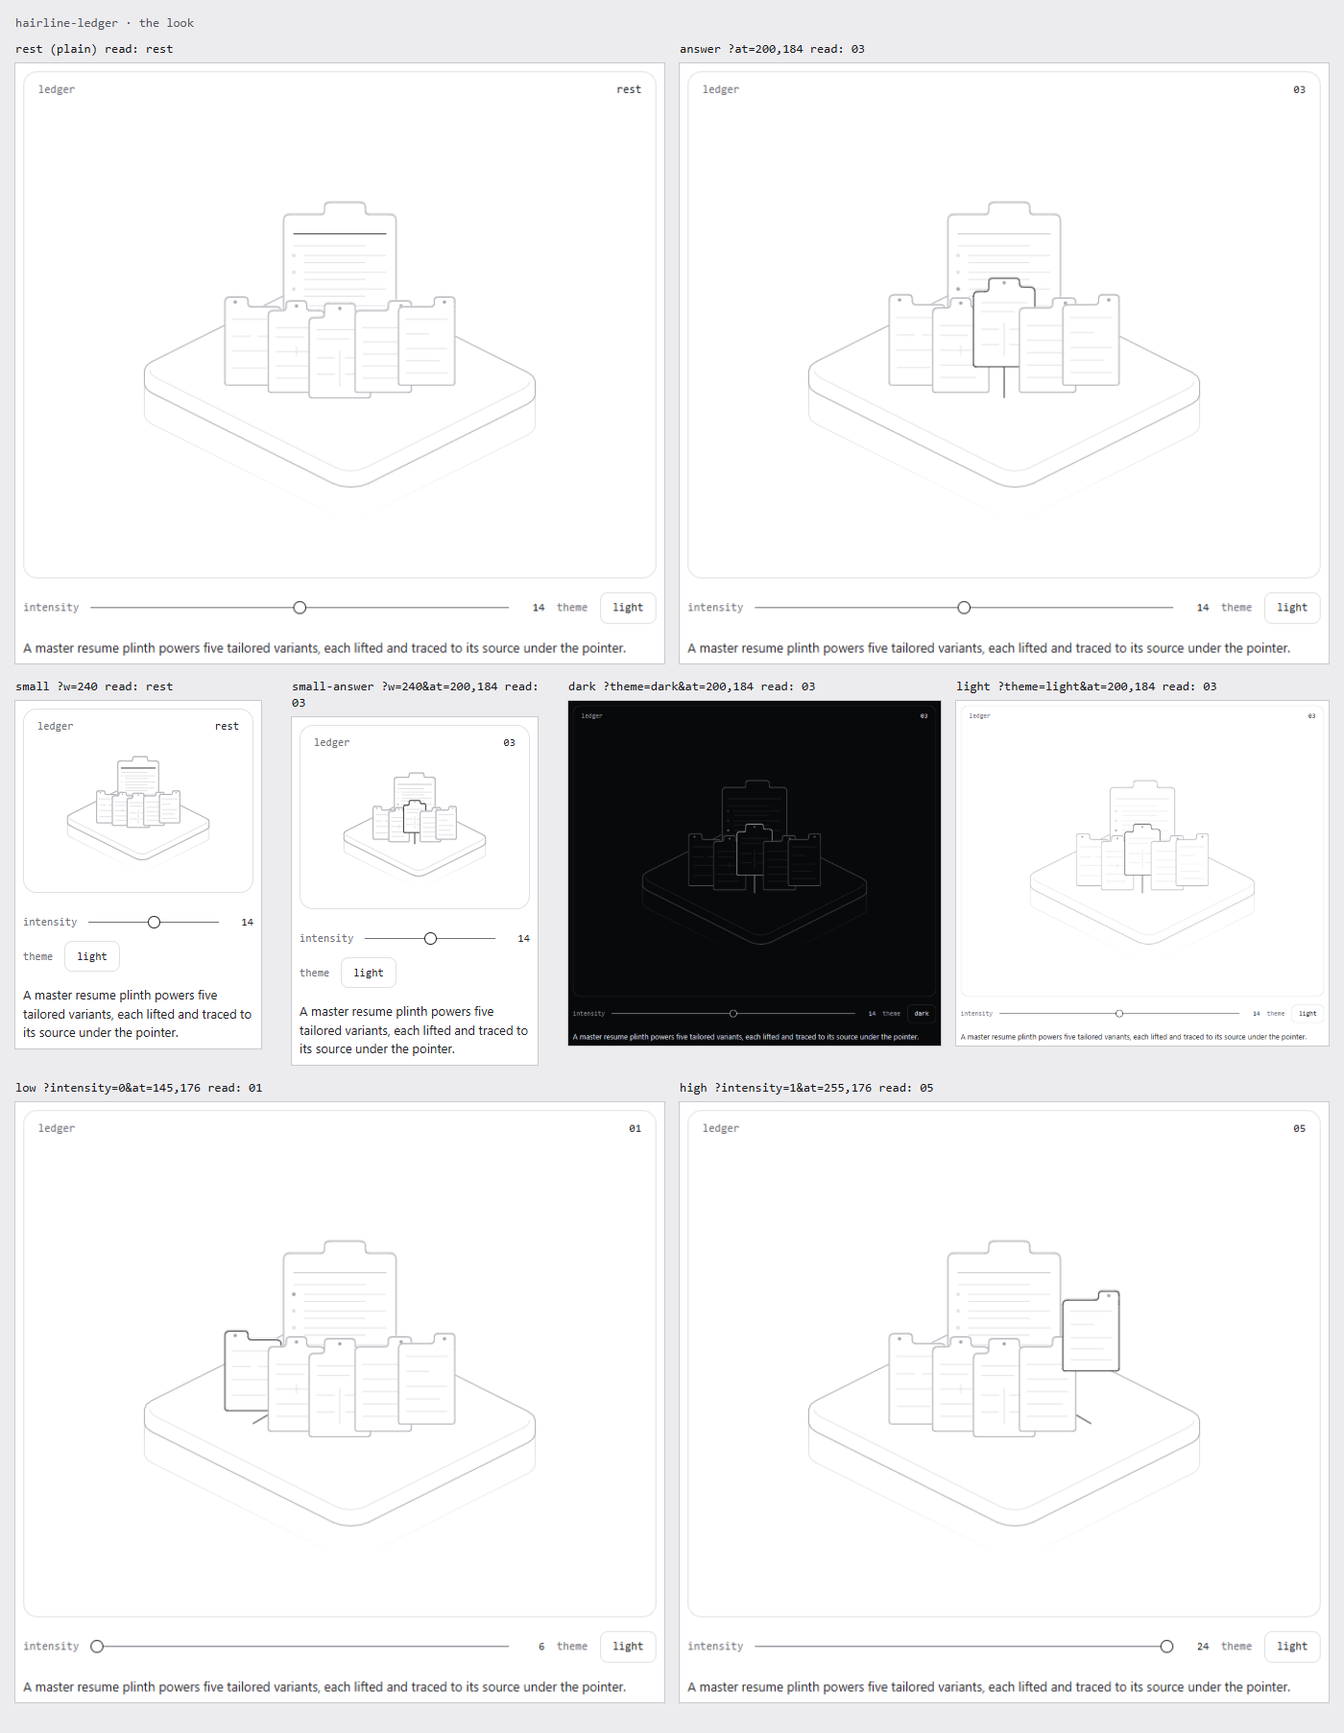
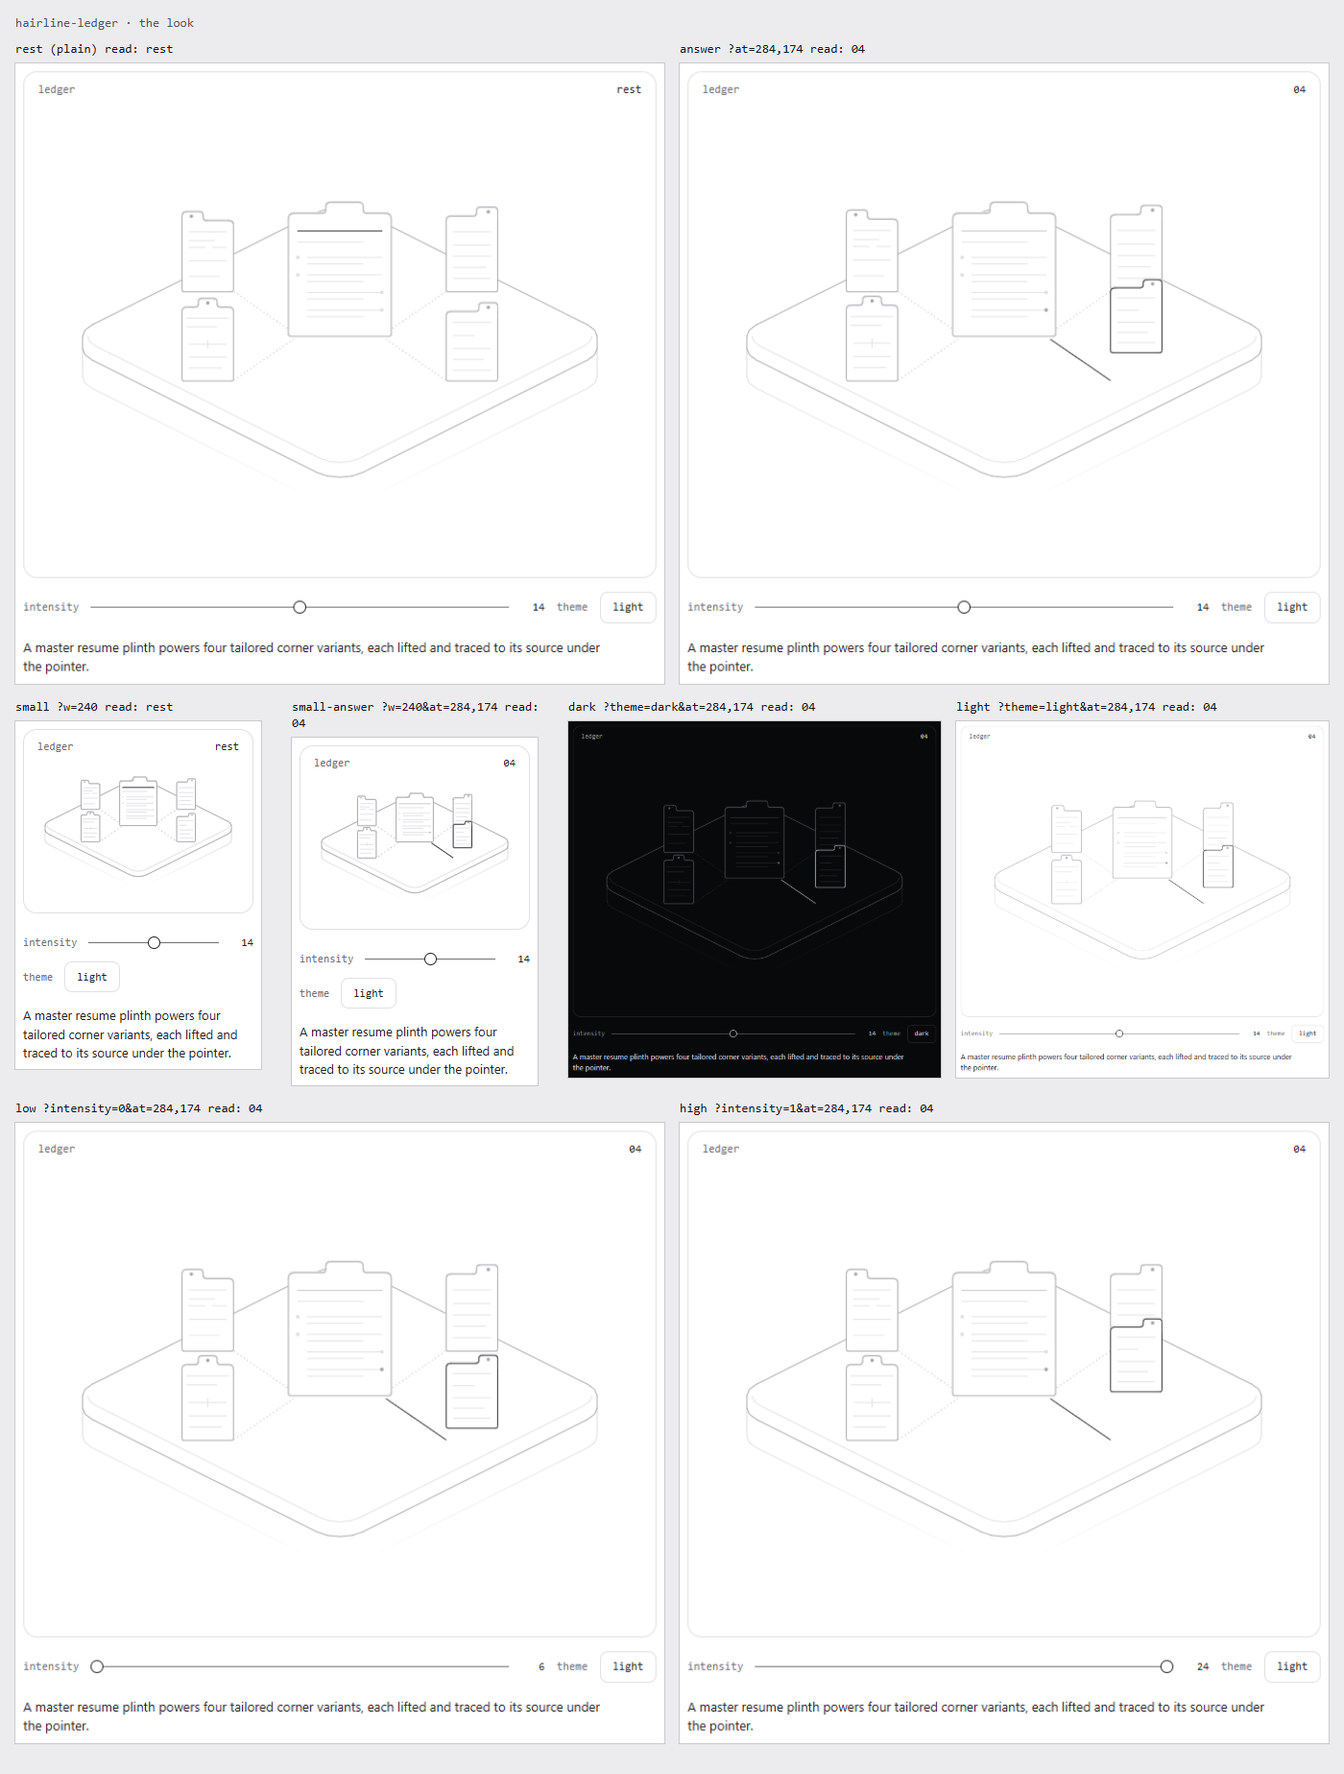
feat(hairline): redesign ledger illustration with centered master and 4 corner resumes

diff --git a/hairline-ledger.html b/hairline-ledger.html
@@ -719,7 +719,7 @@ var HL = (() => {
 </script>
 <script type="module" id="hl-figure">
 /**
- * Ledger: a master resume plinth in the center powering five diversified
+ * Ledger: a master resume plinth in the center powering four corner
  * variant resume cards around it via grounded hairline conduits.
  */
 const {
@@ -728,14 +728,13 @@ const {
   tval, tween, disposer, put,
 } = HL;
 
-const N = 5, WM = 44, HM = 56, TKM = 1.4, TKC = 1.2;
-const SQ2 = Math.SQRT1_2, MCX = -15, MCY = -15, M_REST_TH = -10;
+const N = 4, WM = 44, HM = 56, TKM = 1.4, TKC = 1.2;
+const SQ2 = Math.SQRT1_2, MCX = 0, MCY = 0, M_REST_TH = -10;
 const CARDS = [
-  { cx: -19, cy: 29, th: -13, pt: [-22, -10] },
-  { cx: -3, cy: 21, th: -10, pt: [-18, -6] },
-  { cx: 12, cy: 12, th: -7, pt: [-10, -10] },
-  { cx: 21, cy: -3, th: -10, pt: [-6, -18] },
-  { cx: 29, cy: -19, th: -13, pt: [-10, -22] },
+  { cx: -67, cy: 13, th: -12, pt: [-16, 12], edgeU: 11 },   // 0: Top-Left
+  { cx: -13, cy: 67, th: -8, pt: [-12, 16], edgeU: 11 },    // 1: Bottom-Left
+  { cx: 13, cy: -67, th: -12, pt: [12, -16], edgeU: -11 },  // 2: Top-Right
+  { cx: 67, cy: -13, th: -8, pt: [16, -12], edgeU: -11 },   // 3: Bottom-Right
 ];
 
 const mShape = fillet(
@@ -746,7 +745,6 @@ const mShape = fillet(
 const cShapes = [
   fillet([[-11, 0], [11, 0], [11, 32], [-2, 32], [-2, 36], [-11, 36]], [1, 1, 2, 1.5, 1.5, 2]),
   fillet([[-11, 0], [11, 0], [11, 34], [4, 34], [4, 38], [-4, 38], [-4, 34], [-11, 34]], [1, 1, 2, 1.5, 1.5, 1.5, 1.5, 2]),
-  fillet([[-12, 0], [12, 0], [12, 36], [6, 36], [6, 40], [-6, 40], [-6, 34], [-12, 34]], [1, 1, 2, 1.5, 1.5, 1.5, 1.5, 2]),
   fillet([[-11, 0], [11, 0], [11, 34], [11, 38], [2, 38], [2, 34], [-11, 34]], [1, 1, 2, 1.5, 1.5, 1.5, 2]),
   fillet([[-11, 0], [11, 0], [11, 32], [11, 36], [3, 36], [3, 32], [-11, 32]], [1, 1, 2, 1.5, 1.5, 1.5, 2]),
 ];
@@ -763,29 +761,28 @@ const wb = (P, cx, cy, u, v, th, lift, tk) => {
 function masterPose(P, th, lift) {
   const mw = (u, v) => w(P, MCX, MCY, u, v, th, lift);
   const mwb = (u, v) => wb(P, MCX, MCY, u, v, th, lift, TKM);
-  const vSec = [39, 32, 25, 18, 11];
+  const vSec = [36, 28, 20, 12];
   return {
     back: poly(mShape.map((p) => mwb(p[0], p[1]))),
     face: poly(mShape.map((p) => mw(p[0], p[1]))),
     head: seg(mw(-WM / 2 + 4, HM - 8), mw(WM / 2 - 4, HM - 8)),
     sub: seg(mw(-WM / 2 + 4, HM - 13), mw(WM / 2 - 12, HM - 13)),
     rules: vSec.map((v) => seg(mw(-WM / 2 + 8, v), mw(WM / 2 - 4, v)) + seg(mw(-WM / 2 + 8, v - 3), mw(WM / 2 - 12, v - 3))),
-    punches: vSec.map((v) => mw(-WM / 2 + 4, v)),
+    punches: [mw(-WM / 2 + 4, 36), mw(-WM / 2 + 4, 28), mw(WM / 2 - 4, 20), mw(WM / 2 - 4, 12)],
   };
 }
 
 function cardPose(P, i, th, lift) {
   const cd = CARDS[i], shape = cShapes[i], cw = (u, v) => w(P, cd.cx, cd.cy, u, v, th, lift);
   const cwb = (u, v) => wb(P, cd.cx, cd.cy, u, v, th, lift, TKC);
-  const head = i === 2 ? seg(cw(-9, 29), cw(9, 29)) : seg(cw(-8, 27), cw(8, 27));
-  const sub = i === 2 ? seg(cw(-9, 25), cw(4, 25)) : i === 1 ? seg(cw(-8, 23), cw(3, 23)) : "";
+  const head = i === 1 ? seg(cw(-9, 29), cw(9, 29)) : seg(cw(-8, 27), cw(8, 27));
+  const sub = i === 1 ? seg(cw(-9, 25), cw(4, 25)) : i === 0 ? seg(cw(-8, 23), cw(3, 23)) : "";
   let r = "";
   if (i === 0) r = seg(cw(-8, 20), cw(-1, 20)) + seg(cw(2, 20), cw(8, 20)) + seg(cw(-8, 14), cw(8, 14)) + seg(cw(-8, 7), cw(5, 7));
   else if (i === 1) r = seg(cw(-8, 17), cw(8, 17)) + seg(cw(0, 15), cw(0, 19)) + seg(cw(-8, 11), cw(8, 11)) + seg(cw(-8, 6), cw(6, 6));
-  else if (i === 2) r = seg(cw(0, 20), cw(0, 5)) + seg(cw(-9, 17), cw(-2, 17)) + seg(cw(2, 17), cw(9, 17)) + seg(cw(-9, 10), cw(-2, 10)) + seg(cw(2, 10), cw(9, 10));
-  else if (i === 3) r = seg(cw(-8, 21), cw(8, 21)) + seg(cw(-8, 16), cw(8, 16)) + seg(cw(-8, 11), cw(6, 11)) + seg(cw(-8, 6), cw(8, 6));
+  else if (i === 2) r = seg(cw(-8, 21), cw(8, 21)) + seg(cw(-8, 16), cw(8, 16)) + seg(cw(-8, 11), cw(6, 11)) + seg(cw(-8, 6), cw(8, 6));
   else r = seg(cw(-8, 21), cw(1, 21)) + seg(cw(-8, 15), cw(8, 15)) + seg(cw(-8, 10), cw(5, 10)) + seg(cw(-8, 5), cw(8, 5));
-  const punch = i === 0 ? cw(-7, 34) : i === 1 ? cw(0, 36) : i === 2 ? cw(0, 38) : i === 3 ? cw(7, 36) : cw(7, 34);
+  const punch = i === 0 ? cw(-7, 34) : i === 1 ? cw(0, 36) : i === 2 ? cw(7, 36) : cw(7, 34);
   return { back: poly(shape.map((p) => cwb(p[0], p[1]))), face: poly(shape.map((p) => cw(p[0], p[1]))), head: head + sub, rules: r, punch };
 }
 
@@ -793,43 +790,56 @@ function mount({ stage, svg, read }, value) {
   const bag = disposer();
   let maxLift = value;
 
-  const C = Cam(45, 0.5, 1.62);
-  fit(C, [[-62, -56, -6], [62, 56, -6], [-62, 56, 0], [62, -56, 0], [-15, -15, 80], [-19, 29, 60], [29, -19, 60]], 200, 166);
+  const C = Cam(45, 0.5, 1.48);
+  const plinthR = 82;
+  fit(C, [
+    [-plinthR, -plinthR, -6], [plinthR, plinthR, -6], [-plinthR, plinthR, 0], [plinthR, -plinthR, 0],
+    [0, 0, 75],
+    [-67, 13, 50], [-13, 67, 50], [13, -67, 50], [67, -13, 50],
+  ], 200, 166);
   const P = proj(C), front = facing(C);
 
-  const [outer, inner] = rings(-60, -54, 60, 54, 10, 2.2);
+  const [outer, inner] = rings(-plinthR, -plinthR, plinthR, plinthR, 14, 2.2);
   const g = mk("g", {}, svg);
   reflect(svg, g, P, front, outer, -6, 14);
 
   const plinth = solid(g);
   put(plinth, prism(P, front, outer, inner, -6, 0));
 
-  const conduits = CARDS.map((cd) => mk("path", { d: seg(P(cd.pt[0], cd.pt[1], 0.2), P(cd.cx, cd.cy, 0.2)), class: "dash" }, g));
+  const conduits = CARDS.map((cd) => {
+    const endX = cd.cx + cd.edgeU * SQ2, endY = cd.cy - cd.edgeU * SQ2;
+    return mk("path", { d: seg(P(cd.pt[0], cd.pt[1], 0.2), P(endX, endY, 0.2)), class: "dash" }, g);
+  });
 
-  const mGrp = mk("g", {}, g);
-  const mBack = mk("path", { class: "lo" }, mGrp), mFace = mk("path", { class: "sil" }, mGrp);
-  const mHead = mk("path", { class: "hi" }, mGrp), mSub = mk("path", { class: "lo" }, mGrp);
-  const mRules = [0, 1, 2, 3, 4].map(() => mk("path", { class: "lo" }, mGrp));
-  const mPunches = [0, 1, 2, 3, 4].map(() => mk("circle", { r: 1.15, class: "dot off" }, mGrp));
-  const master = { th: tween(M_REST_TH), z: tween(0) };
-
-  const cards = CARDS.map((cd, i) => {
+  const cards = CARDS.map((cd) => {
     const grp = mk("g", {}, g);
     const back = mk("path", { class: "lo" }, grp), face = mk("path", { class: "sil" }, grp);
     const head = mk("path", { class: "lo" }, grp), rules = mk("path", { class: "lo" }, grp);
     const punch = mk("circle", { r: 1.05, class: "dot m" }, grp);
-    return { back, face, head, rules, punch, th: tween(cd.th), z: tween(0) };
+    return { grp, back, face, head, rules, punch, th: tween(cd.th), z: tween(0) };
   });
 
-  const cM = P(MCX, MCY, 27), cardCenters = CARDS.map((c) => P(c.cx, c.cy, 16));
+  const mGrp = mk("g", {}, g);
+  const mBack = mk("path", { class: "lo" }, mGrp), mFace = mk("path", { class: "sil" }, mGrp);
+  const mHead = mk("path", { class: "hi" }, mGrp), mSub = mk("path", { class: "lo" }, mGrp);
+  const mRules = [0, 1, 2, 3].map(() => mk("path", { class: "lo" }, mGrp));
+  const mPunches = [0, 1, 2, 3].map(() => mk("circle", { r: 1.15, class: "dot off" }, mGrp));
+  const master = { th: tween(M_REST_TH), z: tween(0) };
+
+  // Strict back-to-front paint order: far cards (0, 2), master, near cards (1, 3)
+  [0, 2].forEach((i) => g.appendChild(cards[i].grp));
+  g.appendChild(mGrp);
+  [1, 3].forEach((i) => g.appendChild(cards[i].grp));
+
+  const cM = P(MCX, MCY, 28), cardCenters = CARDS.map((c) => P(c.cx, c.cy, 17));
   function hit([x, y]) {
-    let best = -1, minD = 22;
+    let best = -1, minD = 26;
     for (let i = 0; i < N; i++) {
       const c = cardCenters[i], d = Math.hypot(x - c[0], y - c[1]);
       if (d < minD) { minD = d; best = i; }
     }
     if (best >= 0) return best;
-    if (Math.hypot(x - cM[0], y - cM[1]) < 32) return 5;
+    if (Math.hypot(x - cM[0], y - cM[1]) < 32) return 4;
     return -1;
   }
 
@@ -861,26 +871,26 @@ function mount({ stage, svg, read }, value) {
   bag.add(B.unregister);
 
   let act = -1;
-  const caption = (a) => (a < 0 ? "rest" : a === 5 ? "master" : "0" + (a + 1));
+  const caption = (a) => (a < 0 ? "rest" : a === 4 ? "master" : "0" + (a + 1));
   function setActive(a) {
     if (a === act) return;
     const now = performance.now();
     act = a;
 
-    tset(master.th, a === 5 ? 0 : M_REST_TH, now, 0);
-    tset(master.z, a === 5 ? maxLift + 2 : 0, now, 0);
-    mFace.classList.toggle("hi", a === 5);
+    tset(master.th, a === 4 ? 0 : M_REST_TH, now, 0);
+    tset(master.z, a === 4 ? maxLift + 2 : 0, now, 0);
+    mFace.classList.toggle("hi", a === 4);
     mHead.classList.toggle("hi", a < 0);
 
     cards.forEach((cd, i) => {
-      const delay = a < 0 ? Math.abs(i - 2) * 25 : a === 5 ? Math.abs(i - 2) * 35 : Math.abs(i - a) * 35;
-      const targetTh = a < 0 ? CARDS[i].th : a === i ? 0 : CARDS[i].th - 6;
+      const delay = a < 0 ? Math.abs(i - 1.5) * 25 : a === 4 ? 35 : Math.hypot(CARDS[i].cx - CARDS[a].cx, CARDS[i].cy - CARDS[a].cy) * 0.35;
+      const targetTh = a < 0 ? CARDS[i].th : a === i ? 0 : CARDS[i].th - 4;
       tset(cd.th, targetTh, now, delay);
       tset(cd.z, a === i ? maxLift : 0, now, delay);
       cd.face.classList.toggle("hi", a === i);
       cd.head.classList.toggle("hi", a === i);
-      conduits[i].classList.toggle("hi", a === i || a === 5);
-      conduits[i].classList.toggle("dash", a !== i && a !== 5);
+      conduits[i].classList.toggle("hi", a === i || a === 4);
+      conduits[i].classList.toggle("dash", a !== i && a !== 4);
       mRules[i].classList.toggle("hi", a === i);
       mPunches[i].classList.toggle("m", a === i);
       mPunches[i].classList.toggle("off", a !== i);
@@ -898,7 +908,7 @@ function mount({ stage, svg, read }, value) {
 
 hairline({
   name: "ledger",
-  means: "A master resume plinth powers five tailored variants, each lifted and traced to its source under the pointer.",
+  means: "A master resume plinth powers four tailored corner variants, each lifted and traced to its source under the pointer.",
   rules: [1, 2, 4, 6, 8, 10],
   range: [6, 14, 24],
   mount,

diff --git a/ledger.js b/ledger.js
@@ -1,5 +1,5 @@
 /**
- * Ledger: a master resume plinth in the center powering five diversified
+ * Ledger: a master resume plinth in the center powering four corner
  * variant resume cards around it via grounded hairline conduits.
  */
 const {
@@ -8,14 +8,13 @@ const {
   tval, tween, disposer, put,
 } = HL;
 
-const N = 5, WM = 44, HM = 56, TKM = 1.4, TKC = 1.2;
-const SQ2 = Math.SQRT1_2, MCX = -15, MCY = -15, M_REST_TH = -10;
+const N = 4, WM = 44, HM = 56, TKM = 1.4, TKC = 1.2;
+const SQ2 = Math.SQRT1_2, MCX = 0, MCY = 0, M_REST_TH = -10;
 const CARDS = [
-  { cx: -19, cy: 29, th: -13, pt: [-22, -10] },
-  { cx: -3, cy: 21, th: -10, pt: [-18, -6] },
-  { cx: 12, cy: 12, th: -7, pt: [-10, -10] },
-  { cx: 21, cy: -3, th: -10, pt: [-6, -18] },
-  { cx: 29, cy: -19, th: -13, pt: [-10, -22] },
+  { cx: -67, cy: 13, th: -12, pt: [-16, 12], edgeU: 11 },   // 0: Top-Left
+  { cx: -13, cy: 67, th: -8, pt: [-12, 16], edgeU: 11 },    // 1: Bottom-Left
+  { cx: 13, cy: -67, th: -12, pt: [12, -16], edgeU: -11 },  // 2: Top-Right
+  { cx: 67, cy: -13, th: -8, pt: [16, -12], edgeU: -11 },   // 3: Bottom-Right
 ];
 
 const mShape = fillet(
@@ -26,7 +25,6 @@ const mShape = fillet(
 const cShapes = [
   fillet([[-11, 0], [11, 0], [11, 32], [-2, 32], [-2, 36], [-11, 36]], [1, 1, 2, 1.5, 1.5, 2]),
   fillet([[-11, 0], [11, 0], [11, 34], [4, 34], [4, 38], [-4, 38], [-4, 34], [-11, 34]], [1, 1, 2, 1.5, 1.5, 1.5, 1.5, 2]),
-  fillet([[-12, 0], [12, 0], [12, 36], [6, 36], [6, 40], [-6, 40], [-6, 34], [-12, 34]], [1, 1, 2, 1.5, 1.5, 1.5, 1.5, 2]),
   fillet([[-11, 0], [11, 0], [11, 34], [11, 38], [2, 38], [2, 34], [-11, 34]], [1, 1, 2, 1.5, 1.5, 1.5, 2]),
   fillet([[-11, 0], [11, 0], [11, 32], [11, 36], [3, 36], [3, 32], [-11, 32]], [1, 1, 2, 1.5, 1.5, 1.5, 2]),
 ];
@@ -43,29 +41,28 @@ const wb = (P, cx, cy, u, v, th, lift, tk) => {
 function masterPose(P, th, lift) {
   const mw = (u, v) => w(P, MCX, MCY, u, v, th, lift);
   const mwb = (u, v) => wb(P, MCX, MCY, u, v, th, lift, TKM);
-  const vSec = [39, 32, 25, 18, 11];
+  const vSec = [36, 28, 20, 12];
   return {
     back: poly(mShape.map((p) => mwb(p[0], p[1]))),
     face: poly(mShape.map((p) => mw(p[0], p[1]))),
     head: seg(mw(-WM / 2 + 4, HM - 8), mw(WM / 2 - 4, HM - 8)),
     sub: seg(mw(-WM / 2 + 4, HM - 13), mw(WM / 2 - 12, HM - 13)),
     rules: vSec.map((v) => seg(mw(-WM / 2 + 8, v), mw(WM / 2 - 4, v)) + seg(mw(-WM / 2 + 8, v - 3), mw(WM / 2 - 12, v - 3))),
-    punches: vSec.map((v) => mw(-WM / 2 + 4, v)),
+    punches: [mw(-WM / 2 + 4, 36), mw(-WM / 2 + 4, 28), mw(WM / 2 - 4, 20), mw(WM / 2 - 4, 12)],
   };
 }
 
 function cardPose(P, i, th, lift) {
   const cd = CARDS[i], shape = cShapes[i], cw = (u, v) => w(P, cd.cx, cd.cy, u, v, th, lift);
   const cwb = (u, v) => wb(P, cd.cx, cd.cy, u, v, th, lift, TKC);
-  const head = i === 2 ? seg(cw(-9, 29), cw(9, 29)) : seg(cw(-8, 27), cw(8, 27));
-  const sub = i === 2 ? seg(cw(-9, 25), cw(4, 25)) : i === 1 ? seg(cw(-8, 23), cw(3, 23)) : "";
+  const head = i === 1 ? seg(cw(-9, 29), cw(9, 29)) : seg(cw(-8, 27), cw(8, 27));
+  const sub = i === 1 ? seg(cw(-9, 25), cw(4, 25)) : i === 0 ? seg(cw(-8, 23), cw(3, 23)) : "";
   let r = "";
   if (i === 0) r = seg(cw(-8, 20), cw(-1, 20)) + seg(cw(2, 20), cw(8, 20)) + seg(cw(-8, 14), cw(8, 14)) + seg(cw(-8, 7), cw(5, 7));
   else if (i === 1) r = seg(cw(-8, 17), cw(8, 17)) + seg(cw(0, 15), cw(0, 19)) + seg(cw(-8, 11), cw(8, 11)) + seg(cw(-8, 6), cw(6, 6));
-  else if (i === 2) r = seg(cw(0, 20), cw(0, 5)) + seg(cw(-9, 17), cw(-2, 17)) + seg(cw(2, 17), cw(9, 17)) + seg(cw(-9, 10), cw(-2, 10)) + seg(cw(2, 10), cw(9, 10));
-  else if (i === 3) r = seg(cw(-8, 21), cw(8, 21)) + seg(cw(-8, 16), cw(8, 16)) + seg(cw(-8, 11), cw(6, 11)) + seg(cw(-8, 6), cw(8, 6));
+  else if (i === 2) r = seg(cw(-8, 21), cw(8, 21)) + seg(cw(-8, 16), cw(8, 16)) + seg(cw(-8, 11), cw(6, 11)) + seg(cw(-8, 6), cw(8, 6));
   else r = seg(cw(-8, 21), cw(1, 21)) + seg(cw(-8, 15), cw(8, 15)) + seg(cw(-8, 10), cw(5, 10)) + seg(cw(-8, 5), cw(8, 5));
-  const punch = i === 0 ? cw(-7, 34) : i === 1 ? cw(0, 36) : i === 2 ? cw(0, 38) : i === 3 ? cw(7, 36) : cw(7, 34);
+  const punch = i === 0 ? cw(-7, 34) : i === 1 ? cw(0, 36) : i === 2 ? cw(7, 36) : cw(7, 34);
   return { back: poly(shape.map((p) => cwb(p[0], p[1]))), face: poly(shape.map((p) => cw(p[0], p[1]))), head: head + sub, rules: r, punch };
 }
 
@@ -73,43 +70,56 @@ function mount({ stage, svg, read }, value) {
   const bag = disposer();
   let maxLift = value;
 
-  const C = Cam(45, 0.5, 1.62);
-  fit(C, [[-62, -56, -6], [62, 56, -6], [-62, 56, 0], [62, -56, 0], [-15, -15, 80], [-19, 29, 60], [29, -19, 60]], 200, 166);
+  const C = Cam(45, 0.5, 1.48);
+  const plinthR = 82;
+  fit(C, [
+    [-plinthR, -plinthR, -6], [plinthR, plinthR, -6], [-plinthR, plinthR, 0], [plinthR, -plinthR, 0],
+    [0, 0, 75],
+    [-67, 13, 50], [-13, 67, 50], [13, -67, 50], [67, -13, 50],
+  ], 200, 166);
   const P = proj(C), front = facing(C);
 
-  const [outer, inner] = rings(-60, -54, 60, 54, 10, 2.2);
+  const [outer, inner] = rings(-plinthR, -plinthR, plinthR, plinthR, 14, 2.2);
   const g = mk("g", {}, svg);
   reflect(svg, g, P, front, outer, -6, 14);
 
   const plinth = solid(g);
   put(plinth, prism(P, front, outer, inner, -6, 0));
 
-  const conduits = CARDS.map((cd) => mk("path", { d: seg(P(cd.pt[0], cd.pt[1], 0.2), P(cd.cx, cd.cy, 0.2)), class: "dash" }, g));
+  const conduits = CARDS.map((cd) => {
+    const endX = cd.cx + cd.edgeU * SQ2, endY = cd.cy - cd.edgeU * SQ2;
+    return mk("path", { d: seg(P(cd.pt[0], cd.pt[1], 0.2), P(endX, endY, 0.2)), class: "dash" }, g);
+  });
 
-  const mGrp = mk("g", {}, g);
-  const mBack = mk("path", { class: "lo" }, mGrp), mFace = mk("path", { class: "sil" }, mGrp);
-  const mHead = mk("path", { class: "hi" }, mGrp), mSub = mk("path", { class: "lo" }, mGrp);
-  const mRules = [0, 1, 2, 3, 4].map(() => mk("path", { class: "lo" }, mGrp));
-  const mPunches = [0, 1, 2, 3, 4].map(() => mk("circle", { r: 1.15, class: "dot off" }, mGrp));
-  const master = { th: tween(M_REST_TH), z: tween(0) };
-
-  const cards = CARDS.map((cd, i) => {
+  const cards = CARDS.map((cd) => {
     const grp = mk("g", {}, g);
     const back = mk("path", { class: "lo" }, grp), face = mk("path", { class: "sil" }, grp);
     const head = mk("path", { class: "lo" }, grp), rules = mk("path", { class: "lo" }, grp);
     const punch = mk("circle", { r: 1.05, class: "dot m" }, grp);
-    return { back, face, head, rules, punch, th: tween(cd.th), z: tween(0) };
+    return { grp, back, face, head, rules, punch, th: tween(cd.th), z: tween(0) };
   });
 
-  const cM = P(MCX, MCY, 27), cardCenters = CARDS.map((c) => P(c.cx, c.cy, 16));
+  const mGrp = mk("g", {}, g);
+  const mBack = mk("path", { class: "lo" }, mGrp), mFace = mk("path", { class: "sil" }, mGrp);
+  const mHead = mk("path", { class: "hi" }, mGrp), mSub = mk("path", { class: "lo" }, mGrp);
+  const mRules = [0, 1, 2, 3].map(() => mk("path", { class: "lo" }, mGrp));
+  const mPunches = [0, 1, 2, 3].map(() => mk("circle", { r: 1.15, class: "dot off" }, mGrp));
+  const master = { th: tween(M_REST_TH), z: tween(0) };
+
+  // Strict back-to-front paint order: far cards (0, 2), master, near cards (1, 3)
+  [0, 2].forEach((i) => g.appendChild(cards[i].grp));
+  g.appendChild(mGrp);
+  [1, 3].forEach((i) => g.appendChild(cards[i].grp));
+
+  const cM = P(MCX, MCY, 28), cardCenters = CARDS.map((c) => P(c.cx, c.cy, 17));
   function hit([x, y]) {
-    let best = -1, minD = 22;
+    let best = -1, minD = 26;
     for (let i = 0; i < N; i++) {
       const c = cardCenters[i], d = Math.hypot(x - c[0], y - c[1]);
       if (d < minD) { minD = d; best = i; }
     }
     if (best >= 0) return best;
-    if (Math.hypot(x - cM[0], y - cM[1]) < 32) return 5;
+    if (Math.hypot(x - cM[0], y - cM[1]) < 32) return 4;
     return -1;
   }
 
@@ -141,26 +151,26 @@ function mount({ stage, svg, read }, value) {
   bag.add(B.unregister);
 
   let act = -1;
-  const caption = (a) => (a < 0 ? "rest" : a === 5 ? "master" : "0" + (a + 1));
+  const caption = (a) => (a < 0 ? "rest" : a === 4 ? "master" : "0" + (a + 1));
   function setActive(a) {
     if (a === act) return;
     const now = performance.now();
     act = a;
 
-    tset(master.th, a === 5 ? 0 : M_REST_TH, now, 0);
-    tset(master.z, a === 5 ? maxLift + 2 : 0, now, 0);
-    mFace.classList.toggle("hi", a === 5);
+    tset(master.th, a === 4 ? 0 : M_REST_TH, now, 0);
+    tset(master.z, a === 4 ? maxLift + 2 : 0, now, 0);
+    mFace.classList.toggle("hi", a === 4);
     mHead.classList.toggle("hi", a < 0);
 
     cards.forEach((cd, i) => {
-      const delay = a < 0 ? Math.abs(i - 2) * 25 : a === 5 ? Math.abs(i - 2) * 35 : Math.abs(i - a) * 35;
-      const targetTh = a < 0 ? CARDS[i].th : a === i ? 0 : CARDS[i].th - 6;
+      const delay = a < 0 ? Math.abs(i - 1.5) * 25 : a === 4 ? 35 : Math.hypot(CARDS[i].cx - CARDS[a].cx, CARDS[i].cy - CARDS[a].cy) * 0.35;
+      const targetTh = a < 0 ? CARDS[i].th : a === i ? 0 : CARDS[i].th - 4;
       tset(cd.th, targetTh, now, delay);
       tset(cd.z, a === i ? maxLift : 0, now, delay);
       cd.face.classList.toggle("hi", a === i);
       cd.head.classList.toggle("hi", a === i);
-      conduits[i].classList.toggle("hi", a === i || a === 5);
-      conduits[i].classList.toggle("dash", a !== i && a !== 5);
+      conduits[i].classList.toggle("hi", a === i || a === 4);
+      conduits[i].classList.toggle("dash", a !== i && a !== 4);
       mRules[i].classList.toggle("hi", a === i);
       mPunches[i].classList.toggle("m", a === i);
       mPunches[i].classList.toggle("off", a !== i);
@@ -178,7 +188,7 @@ function mount({ stage, svg, read }, value) {
 
 hairline({
   name: "ledger",
-  means: "A master resume plinth powers five tailored variants, each lifted and traced to its source under the pointer.",
+  means: "A master resume plinth powers four tailored corner variants, each lifted and traced to its source under the pointer.",
   rules: [1, 2, 4, 6, 8, 10],
   range: [6, 14, 24],
   mount,
